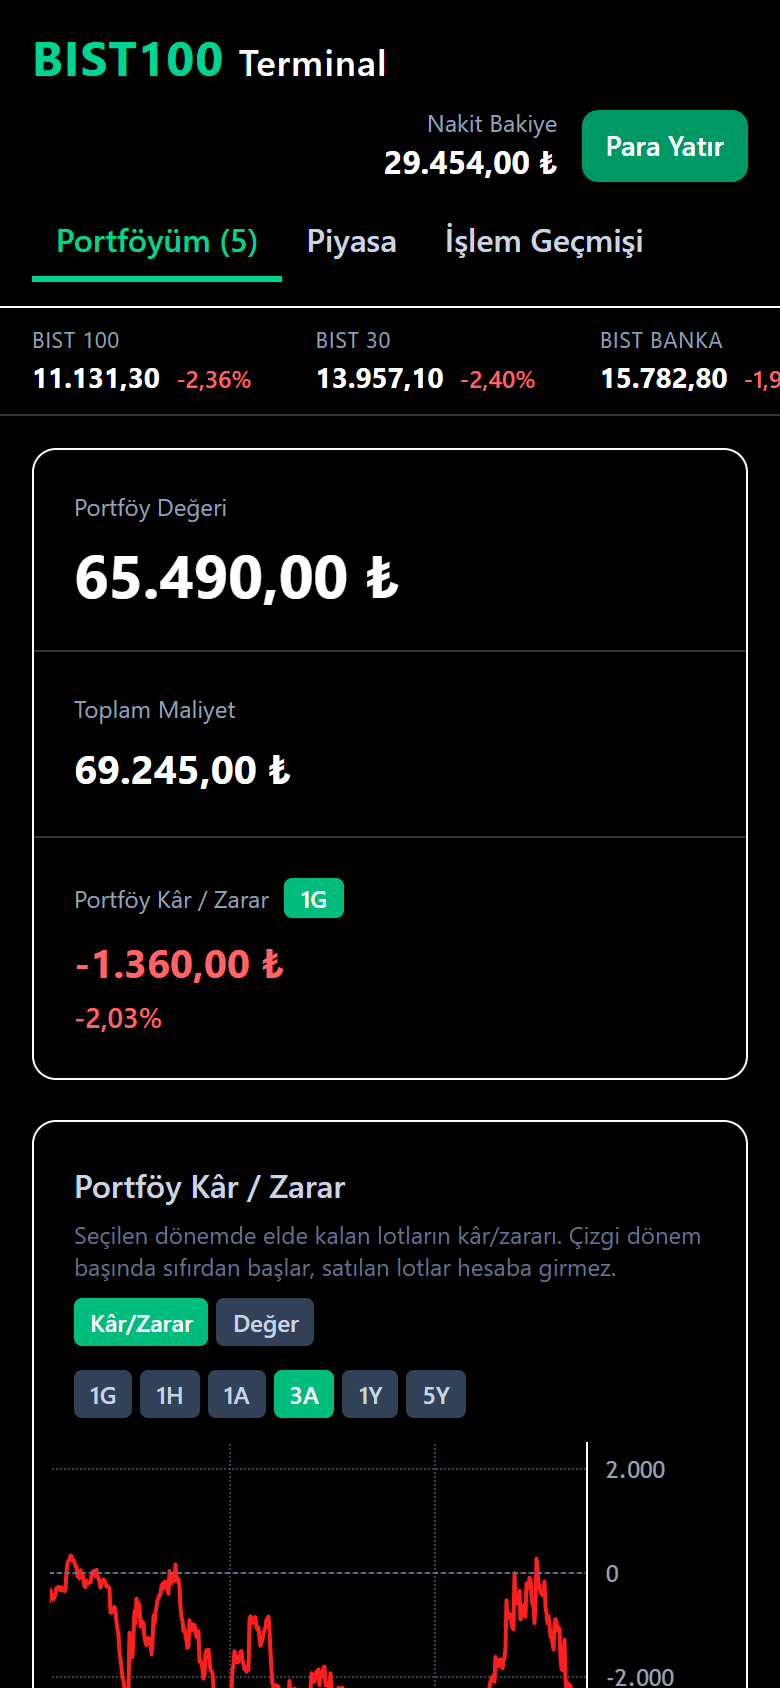
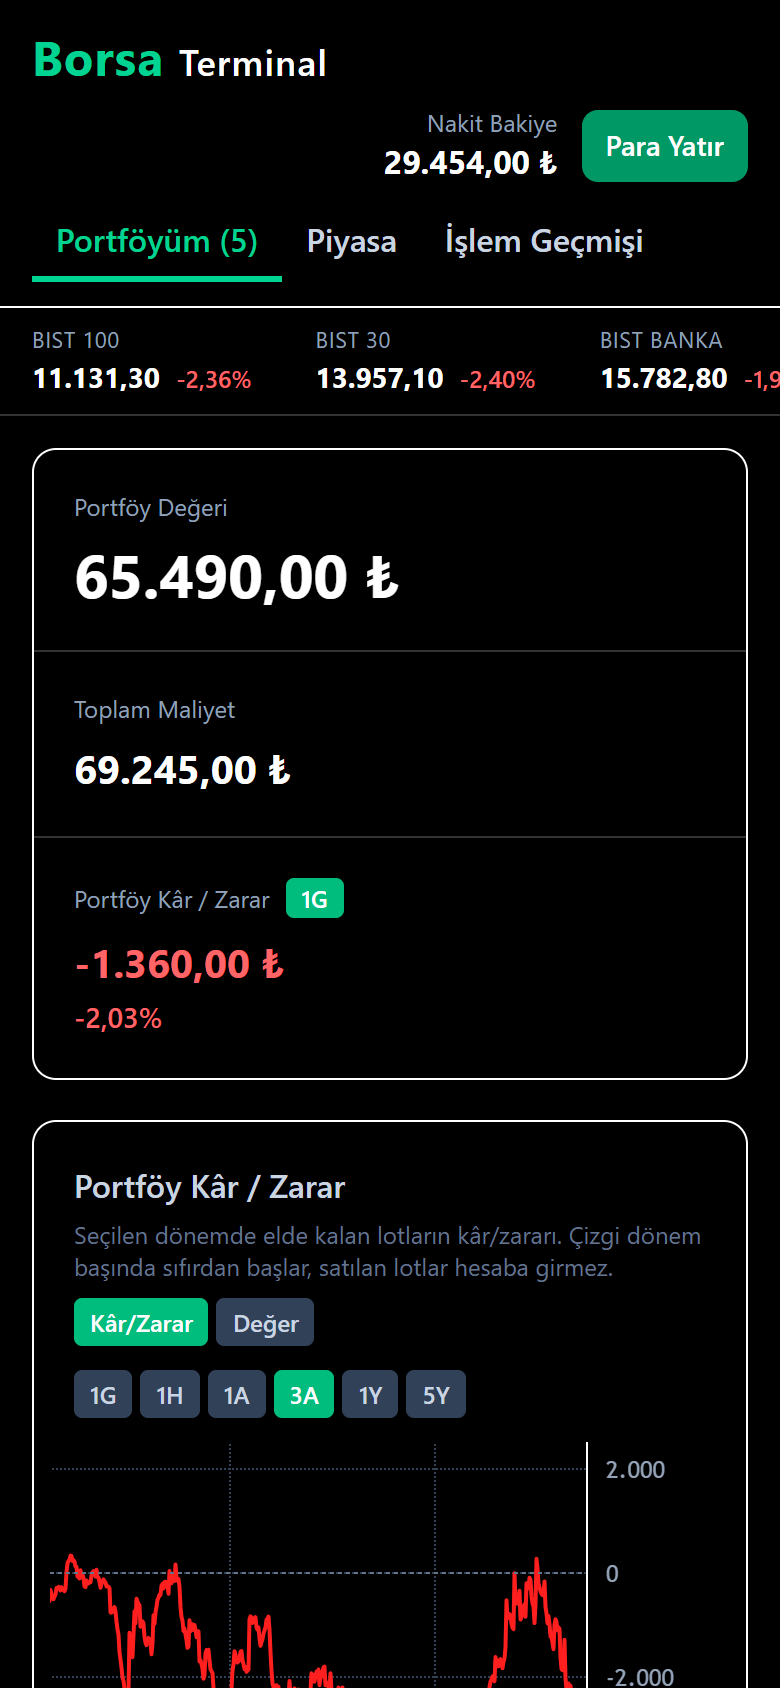
chore: use neutral product name, add data source and trademark notices, block search indexing

diff --git a/frontend/src/App.jsx b/frontend/src/App.jsx
@@ -782,7 +782,8 @@ function App() {
       {/* Sekmeler altı çizili, nakit bakiye ve para yatırma her sayfada sağ üstte. */}
       <nav className="border-b border-white bg-black px-4 sm:px-7 py-3 lg:py-0 lg:h-16 flex flex-wrap items-center gap-x-7 gap-y-2 sticky top-0 z-20">
         <h1 className="text-2xl font-bold text-emerald-400 tracking-wide cursor-pointer" onClick={() => setAktifSekme('portfoy')}>
-          BIST100 <span className="text-white font-medium text-lg">Terminal</span>
+          {/* Ürün adında Borsa İstanbul'un markası (BIST) kullanılmaz. */}
+          Borsa <span className="text-white font-medium text-lg">Terminal</span>
         </h1>
         <div className="order-3 lg:order-none w-full lg:w-auto h-10 lg:h-full flex">
           <button onClick={() => setAktifSekme('portfoy')} className={sekmeStili('portfoy')}>Portföyüm ({portfoy.length})</button>
@@ -1024,7 +1025,7 @@ function App() {
             {!kayitVar && (
               <section className="rounded-xl border border-emerald-500/60 bg-emerald-500/5 p-5 flex flex-wrap items-center gap-4">
                 <div className="min-w-0 flex-1 basis-80">
-                  <h2 className="text-lg font-bold text-white">BIST100 Terminal'e hoş geldiniz</h2>
+                  <h2 className="text-lg font-bold text-white">Borsa Terminal'e hoş geldiniz</h2>
                   <p className="text-sm text-slate-300 mt-1">
                     Borsa İstanbul hisseleriyle sanal alım-satım simülasyonu. Hızlıca görmek için son 3 ayın gerçek fiyatlarıyla kurulmuş
                     örnek portföyü yükleyin ya da Para Yatır ile kendi portföyünüzü oluşturun.
@@ -1239,8 +1240,13 @@ function App() {
         )}
       </main>
       {/* Her sayfada görünen uyarı ve kaynak kod bağlantısı. */}
-      <footer className="border-t border-white/20 px-4 sm:px-7 py-4 text-xs text-slate-500 flex flex-wrap justify-between gap-x-6 gap-y-1">
-        <span>Eğitim amaçlı simülasyondur. Gerçek emir gönderilmez, gerçek para kullanılmaz. Fiyatlar Yahoo Finance'ten gecikmeli alınır, yatırım tavsiyesi değildir.</span>
+      {/* Veri kaynakları, bağımsızlık ve marka bildirimi eklendi. */}
+      <footer className="border-t border-white/20 px-4 sm:px-7 py-4 text-xs text-slate-500 flex flex-wrap justify-between gap-x-6 gap-y-2">
+        <div className="space-y-1 max-w-4xl">
+          <p>Eğitim amaçlı, ticari olmayan bir simülasyondur. Gerçek emir gönderilmez, gerçek para kullanılmaz, yatırım tavsiyesi değildir.</p>
+          <p>Fiyatlar Yahoo Finance'ten gecikmeli alınır ve doğruluğu garanti edilmez. Şirket adları İş Yatırım'dan, endeks üyeleri ve sektörler KAP'tan alınır.</p>
+          <p>Bu site Borsa İstanbul, Yahoo, KAP veya İş Yatırım ile bağlantılı değildir. BIST ve BIST 100, Borsa İstanbul A.Ş.'nin markalarıdır.</p>
+        </div>
         <a href="https://github.com/ibrahim1y/BIST-Terminal" target="_blank" rel="noreferrer" className="hover:text-white transition">Kaynak kod: GitHub</a>
       </footer>
     </div>

diff --git a/frontend/index.html b/frontend/index.html
@@ -1,10 +1,13 @@
 <!doctype html>
-<html lang="en">
+<html lang="tr">
   <head>
     <meta charset="UTF-8" />
     <link rel="icon" type="image/svg+xml" href="/favicon.svg" />
     <meta name="viewport" content="width=device-width, initial-scale=1.0" />
-    <title>borsa-app</title>
+    <!-- Nötr ürün adı ve açıklama. Site arama motorlarına kapalıdır, yalnızca linki paylaşılan kişiler açar. -->
+    <meta name="description" content="Borsa İstanbul hisseleriyle eğitim amaçlı sanal alım-satım simülasyonu." />
+    <meta name="robots" content="noindex, nofollow" />
+    <title>Borsa Terminal</title>
   </head>
   <body class="bg-black">
     <div id="root"></div>

diff --git a/README.md b/README.md
@@ -1,4 +1,4 @@
-# BIST Terminal
+# Borsa Terminal
 
 [![Testler](https://github.com/ibrahim1y/BIST-Terminal/actions/workflows/testler.yml/badge.svg)](https://github.com/ibrahim1y/BIST-Terminal/actions/workflows/testler.yml)
 
@@ -157,6 +157,14 @@ python -m unittest
 - Portföy, işlem geçmişi, nakit hareketleri ve son fiyatlar yalnızca tarayıcının `localStorage` alanında tutulur. Tarayıcı verileri silinirse bunlar da silinir.
 - Para yatırma simülasyondur, gerçek para kullanılmaz.
 - Bu proje yatırım tavsiyesi vermez.
+
+## Yasal Uyarı
+
+- Bu proje eğitim ve tanıtım amaçlıdır, ticari değildir. Gerçek emir göndermez, gerçek para kullanmaz ve yatırım tavsiyesi vermez.
+- Fiyatlar Yahoo Finance'ten `yfinance` kütüphanesiyle gecikmeli alınır. Veriler Yahoo'nun ve veri sağlayıcılarının kullanım koşullarına tabidir. Doğrulukları garanti edilmez.
+- Şirket adları İş Yatırım'dan, BIST 100 üyeleri ve sektörler Kamuyu Aydınlatma Platformu'ndan (KAP) alınır.
+- Proje Borsa İstanbul, Yahoo, KAP veya İş Yatırım ile bağlantılı değildir ve onlar tarafından onaylanmamıştır. BIST ve BIST 100, Borsa İstanbul A.Ş.'nin markalarıdır, burada yalnızca hisseleri tanımlamak için kullanılır.
+- Canlı site arama motorlarına kapalıdır (`robots.txt` ve `noindex`).
 
 ## Sorun Giderme
 
